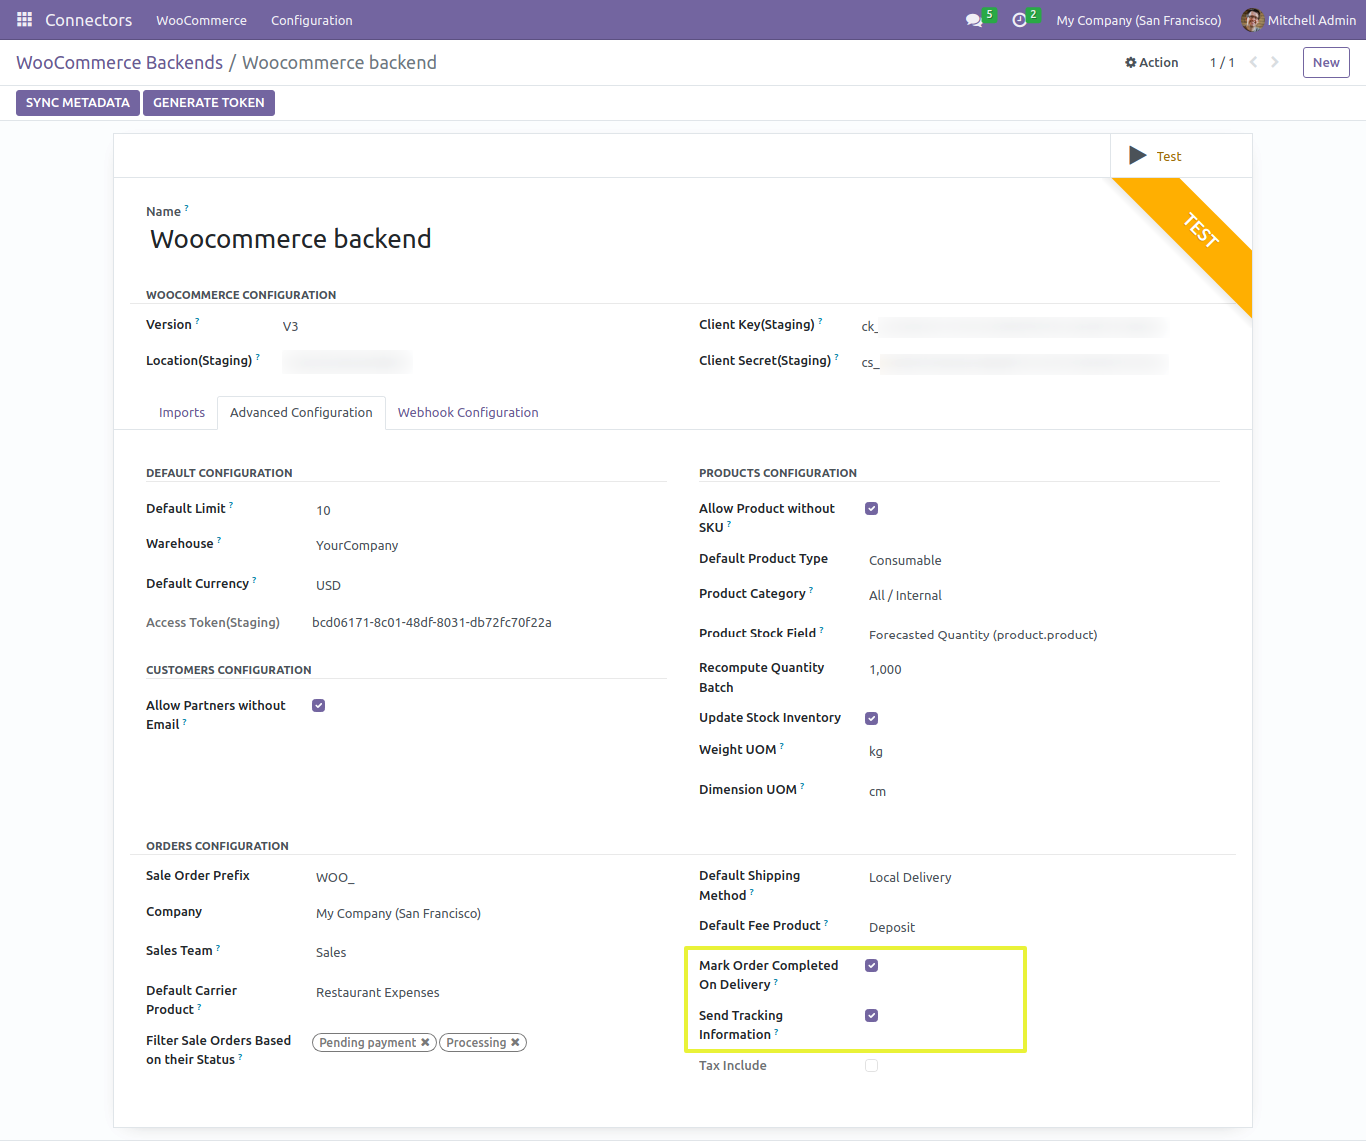
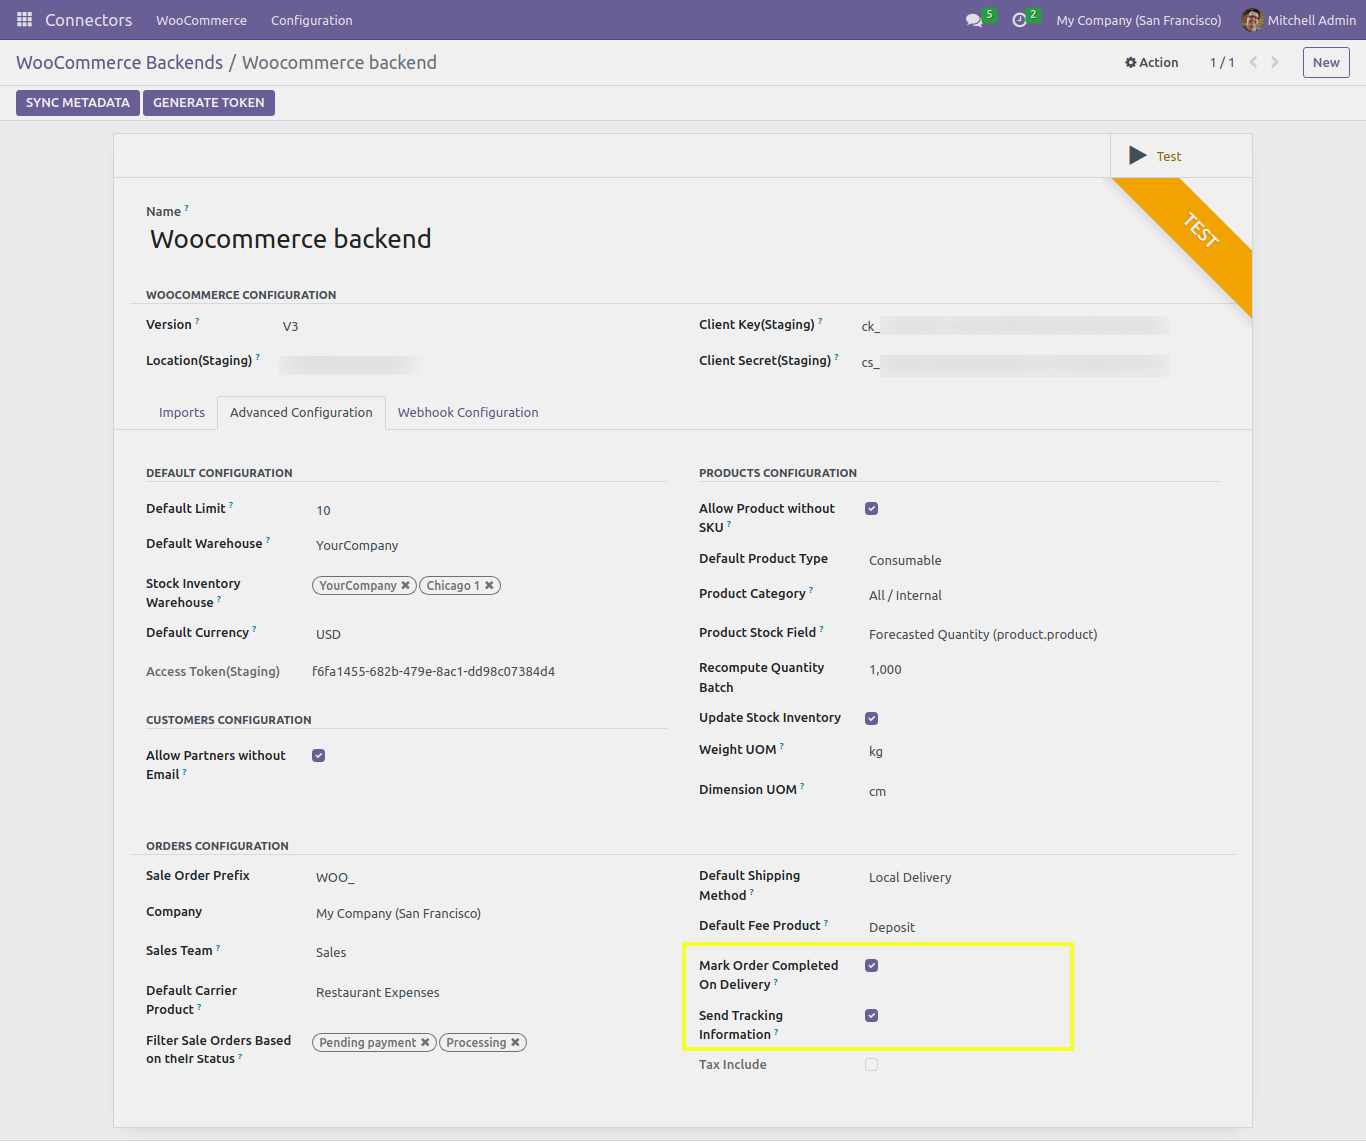
[ADD][T7520]bad_connector_woocommerce:change backend image and updated readme

diff --git a/bad_connector_woocommerce/README.rst b/bad_connector_woocommerce/README.rst
@@ -16,7 +16,7 @@
 * Add "Import Partners","Import Products","Import Product Templates","Import Product Attributes","Import Product Category", "Import Orders", "Sync Metadata", "Import Taxes", "Update Stock Inventory" and "Export Refunds" at backend level.
 * Required field to Import the Partners,Product Templates,Products,Product Attributes,Taxes,Product Tags,Product Category,Update Stock Inventory, Sale Orders and Export Sale Order Refunds are Location,Client Id,Client Secret,Product Category,Company and Warehouse.
 * Add Button of "GENERATE TOKEN" to generate the "Access Token".
-
+* Added multi-warehouse functionality to manages stock.
 
 **Author**
 **********
